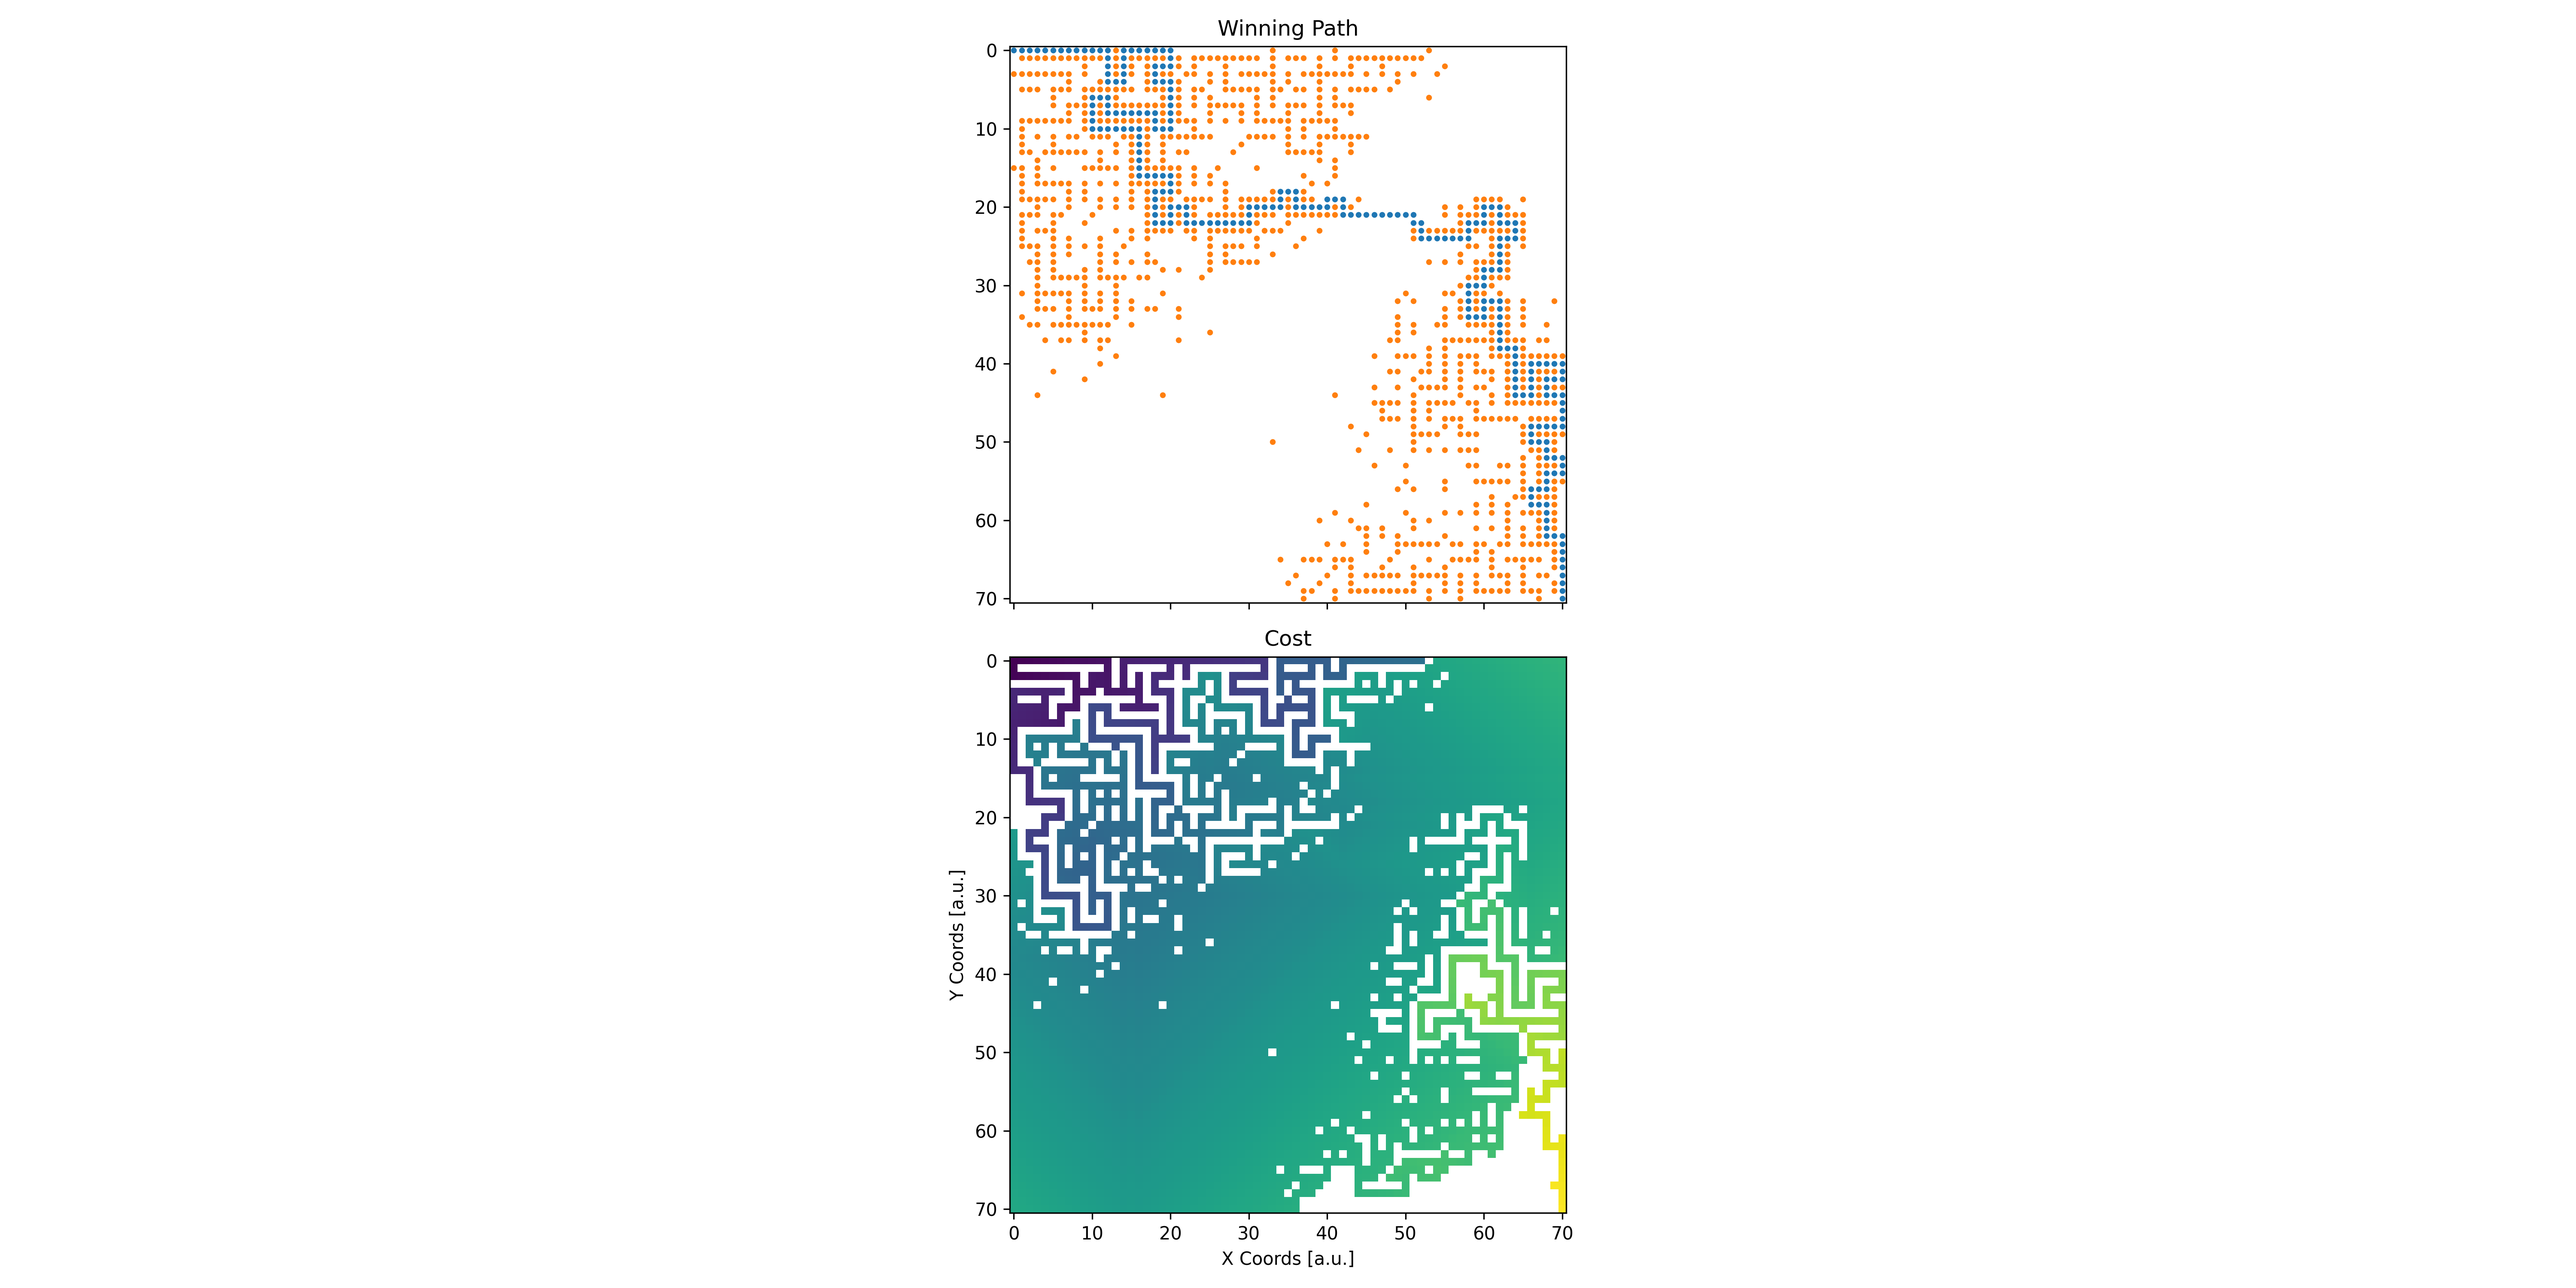
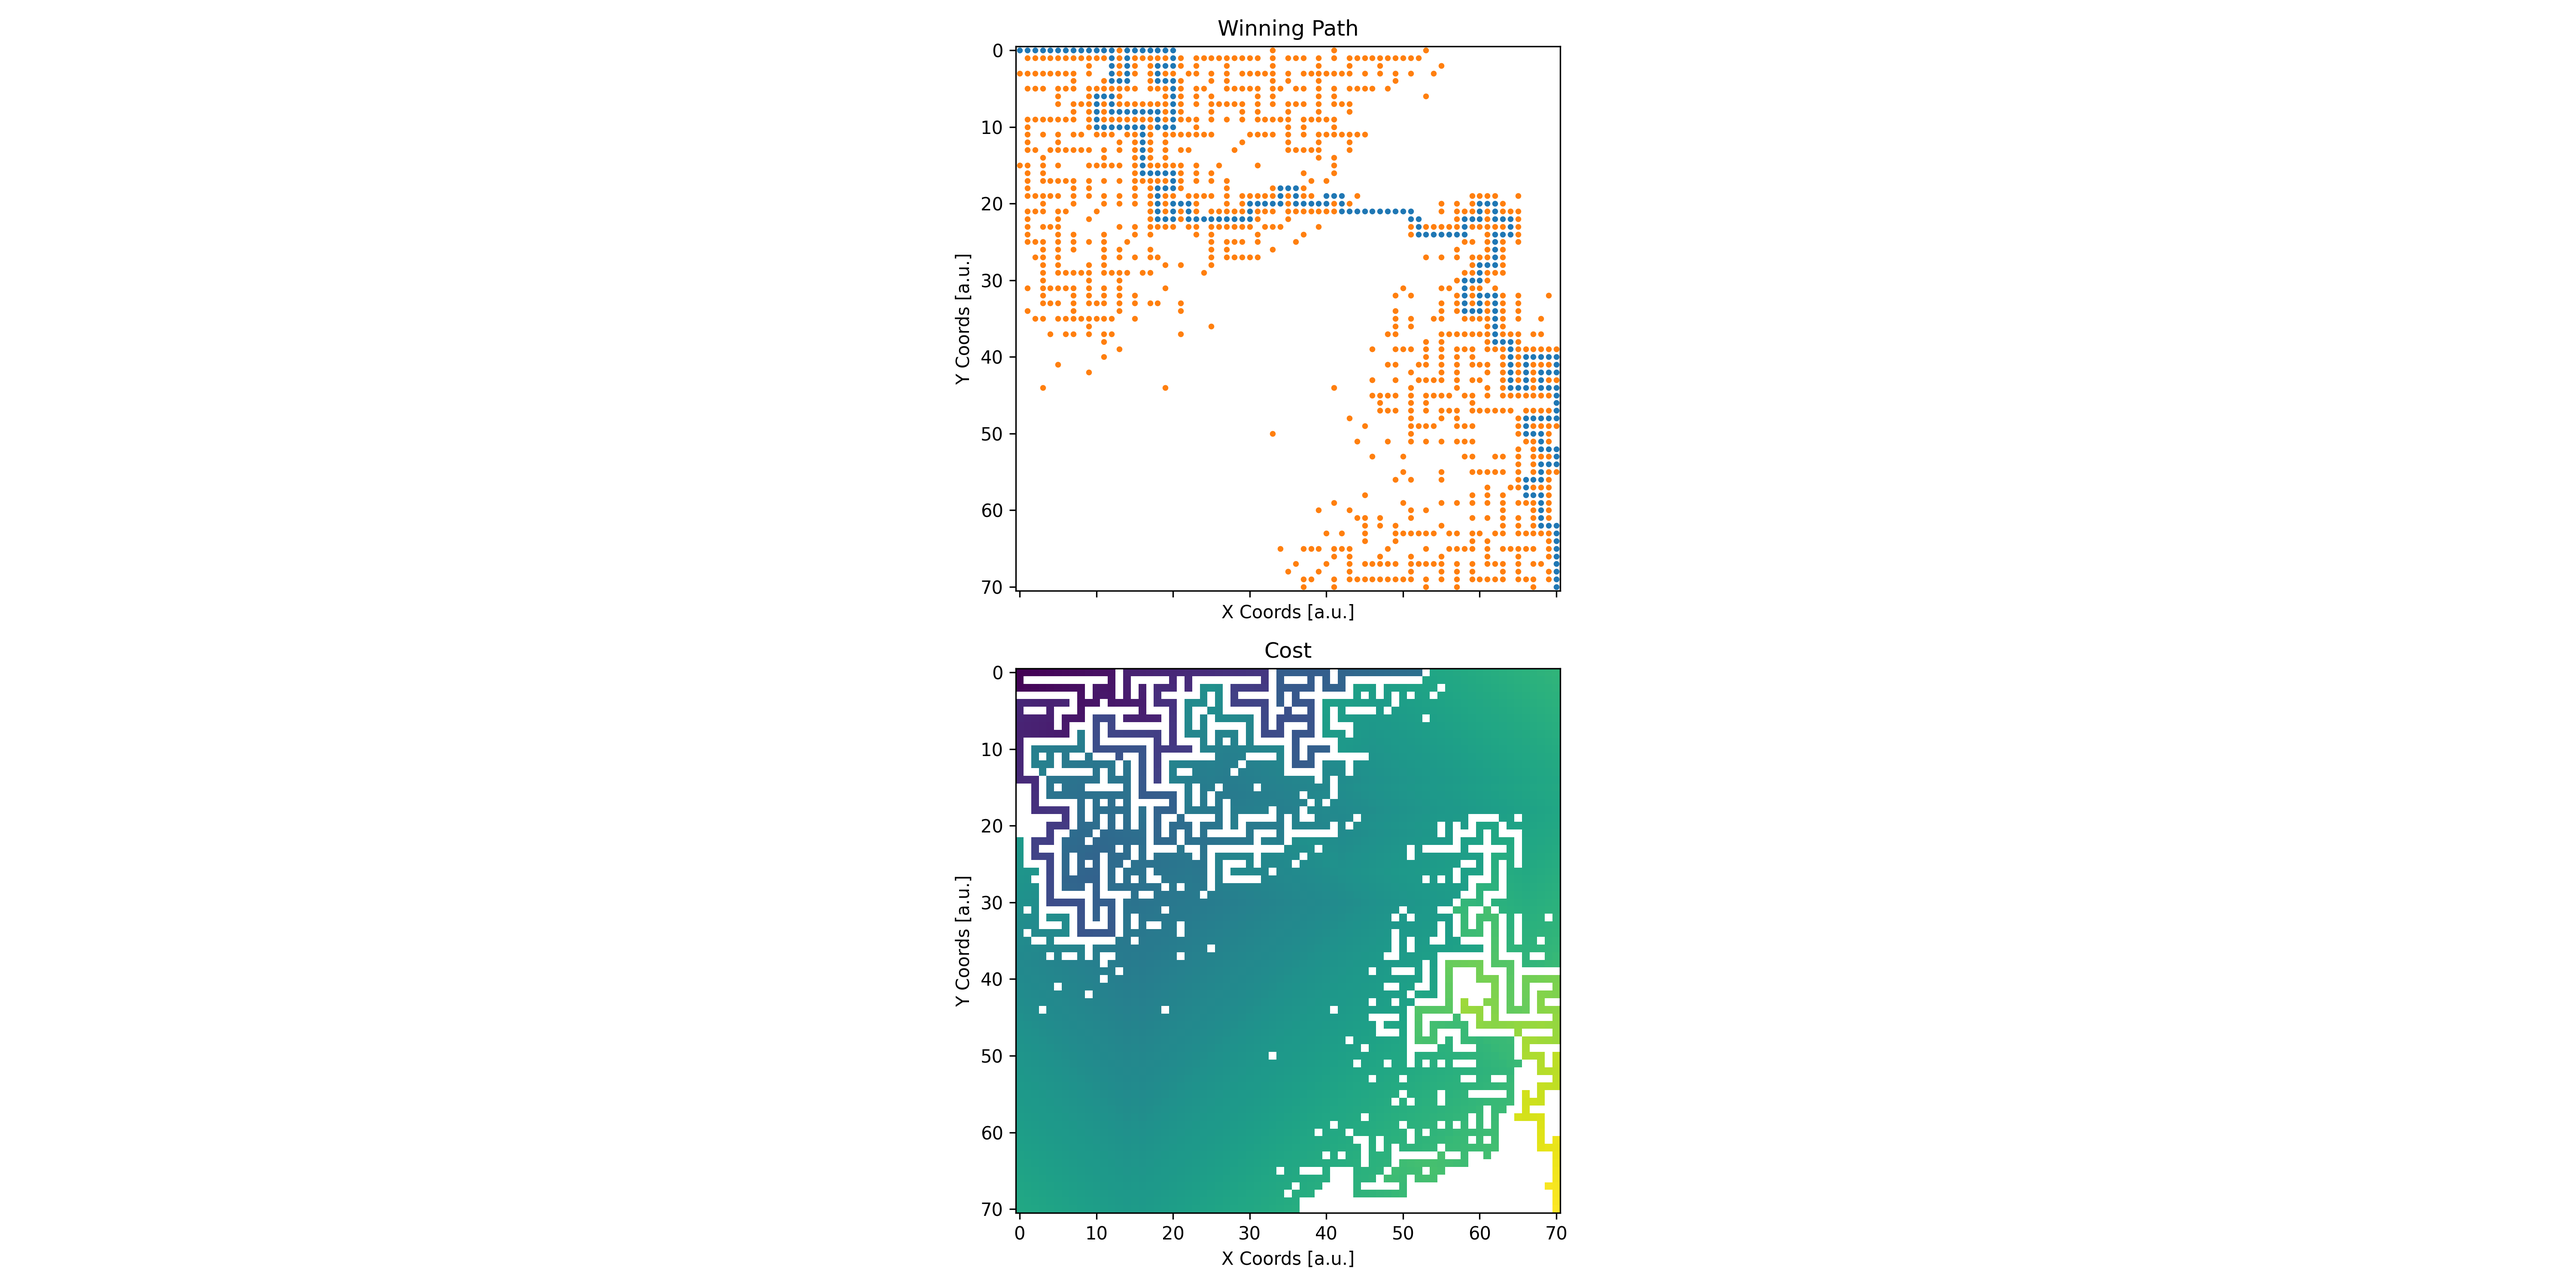
cleanup

diff --git a/18/day18.py b/18/day18.py
@@ -139,6 +139,8 @@ fig, axarr = plt.subplots(2, 1, dpi=300, figsize=(20, 10), sharex=True, sharey=T
 axarr[0].scatter([p.real for p in path], [p.imag for p in path], s=5)
 axarr[0].scatter([p.real for p in bts], [p.imag for p in bts], s=5)
 axarr[0].set_aspect("equal")
+axarr[0].set_xlabel("X Coords [a.u.]")
+axarr[0].set_ylabel("Y Coords [a.u.]")
 axarr[0].set_title("Winning Path")
 axarr[0].invert_yaxis()
 axarr[1].imshow(plot_cost(cheapest_cost))
@@ -157,7 +159,7 @@ print("Minimum Steps A:", len(path) - 1)
 # just brute force, but only check when a new bit falls on the current best path
 for len_bts in range(1024, len(bts_all)):
     if bts_all[len_bts] not in path:
-        print(bts_all[len_bts])
+        # print(bts_all[len_bts])
         continue
     path_dict, cheapest_cost = run_astar(bts_all[: len_bts + 1])
     if not path_dict:
